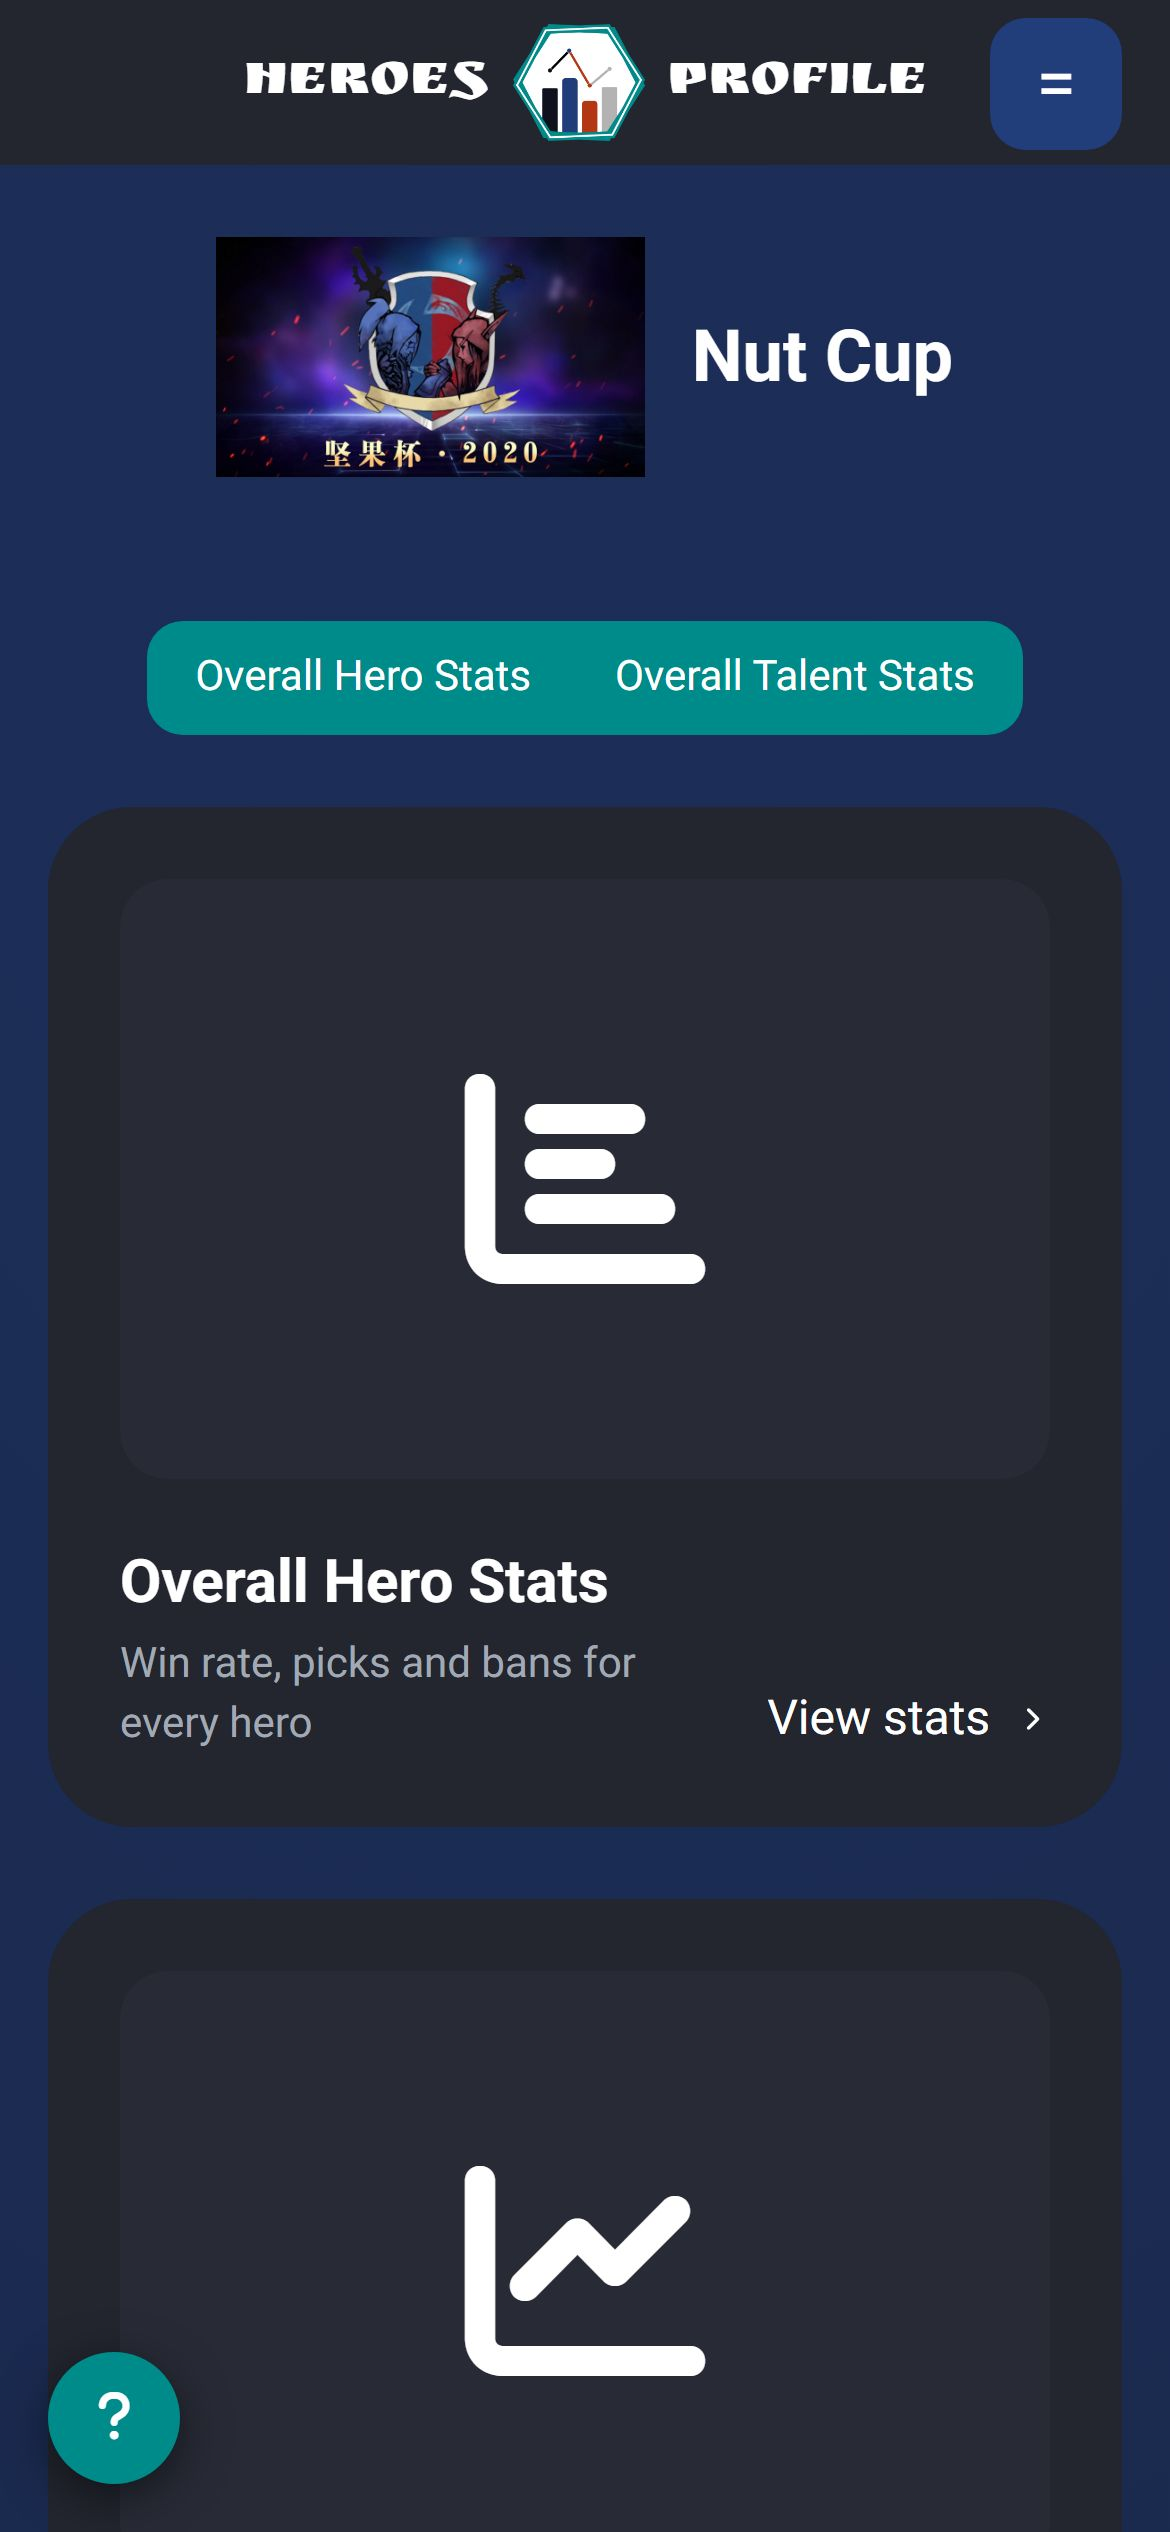
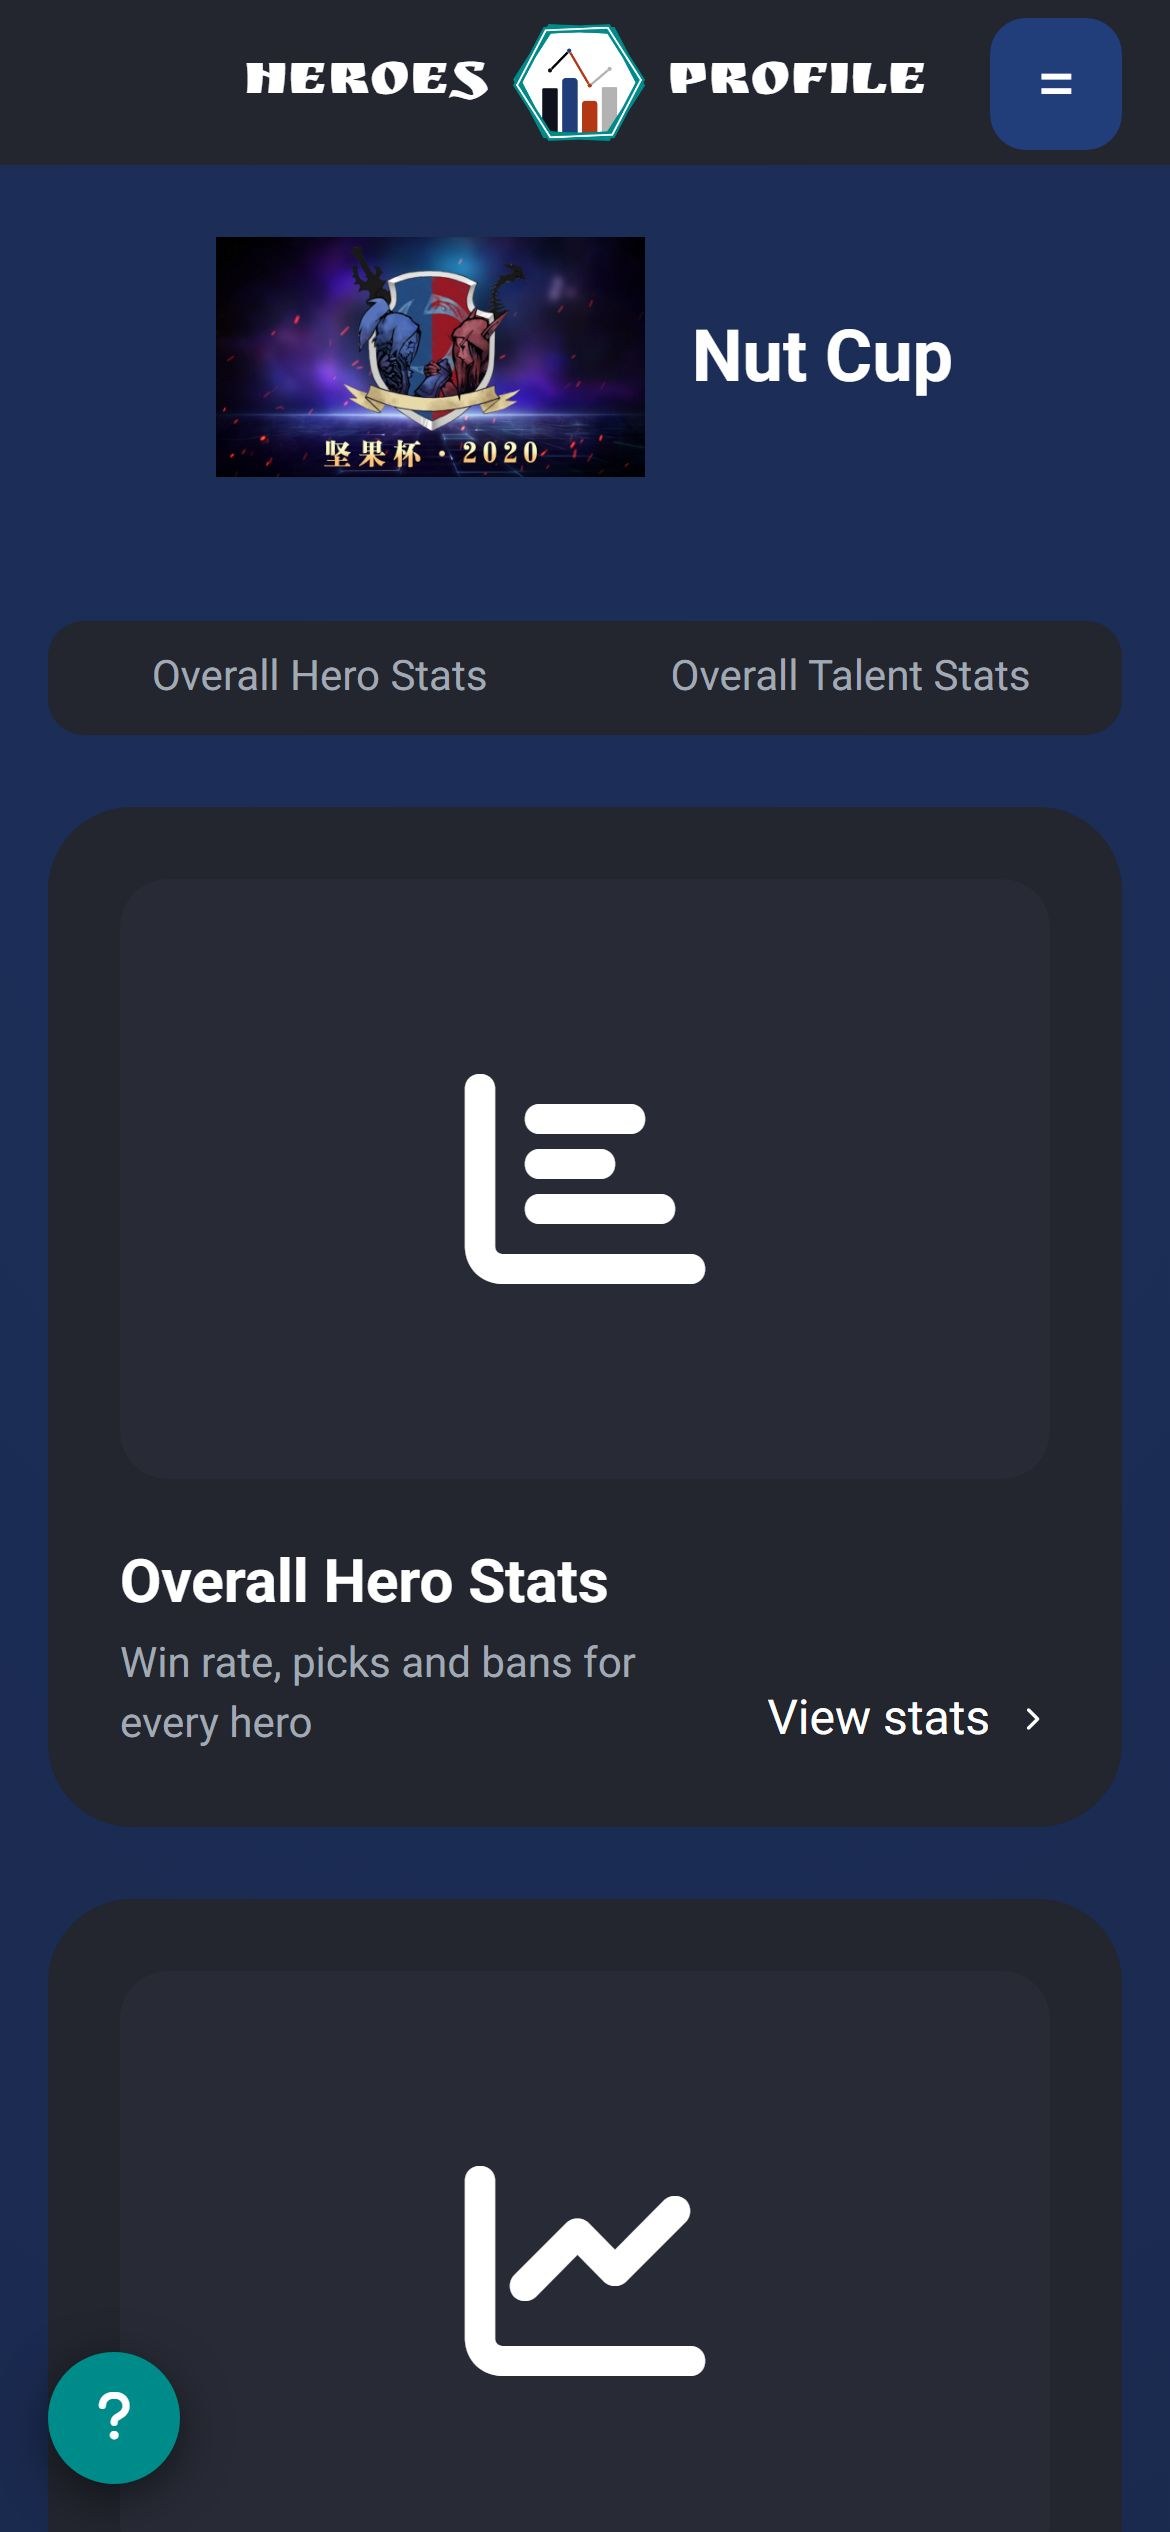
Nut Cup: section tabs across the page like the other leagues; Redesign/2026 Nut Cup after shots retaken (desktop and phone)

Changed region(s): [[0.0308, 0.2184, 0.9846, 0.312]]

diff --git a/resources/js/components/Esports/NutCup/NutCupMain.vue b/resources/js/components/Esports/NutCup/NutCupMain.vue
@@ -22,10 +22,9 @@
       </div>
     </player-page-top>
 
-      <!---You are going to have to design this better, I am going to use buttons for now -->
-      <!-- The sections; none is picked on the landing cards, and the others wait while one loads -->
-      <div class="flex justify-center px-4 mt-6 mb-6">
-        <tab-button :tabs="[{ key: 'overallHeroStats', text: 'Overall Hero Stats' }, { key: 'overallTalentStats', text: 'Overall Talent Stats' }]" :no-default="true" :disabled="isLoading" :overridedefaultside="activeButton" :ignoreclick="true" @tab-click="setButtonActive"></tab-button>
+      <!-- The sections, across the page as on the other leagues; none is picked on the landing cards, and the others wait while one loads -->
+      <div class="max-w-[120rem] mx-auto px-4 md:px-8 mt-6 mb-6">
+        <tab-button :tabs="[{ key: 'overallHeroStats', text: 'Overall Hero Stats' }, { key: 'overallTalentStats', text: 'Overall Talent Stats' }]" :stretch="true" :no-default="true" :disabled="isLoading" :overridedefaultside="activeButton" :ignoreclick="true" @tab-click="setButtonActive"></tab-button>
       </div>
 
 
